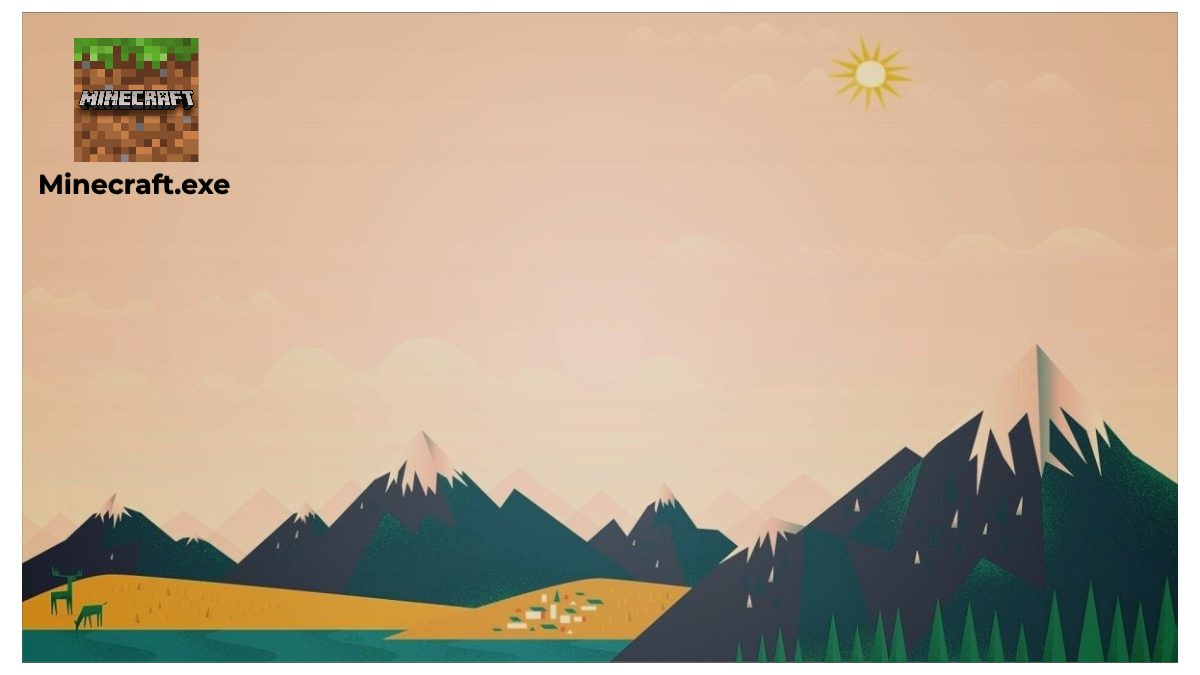
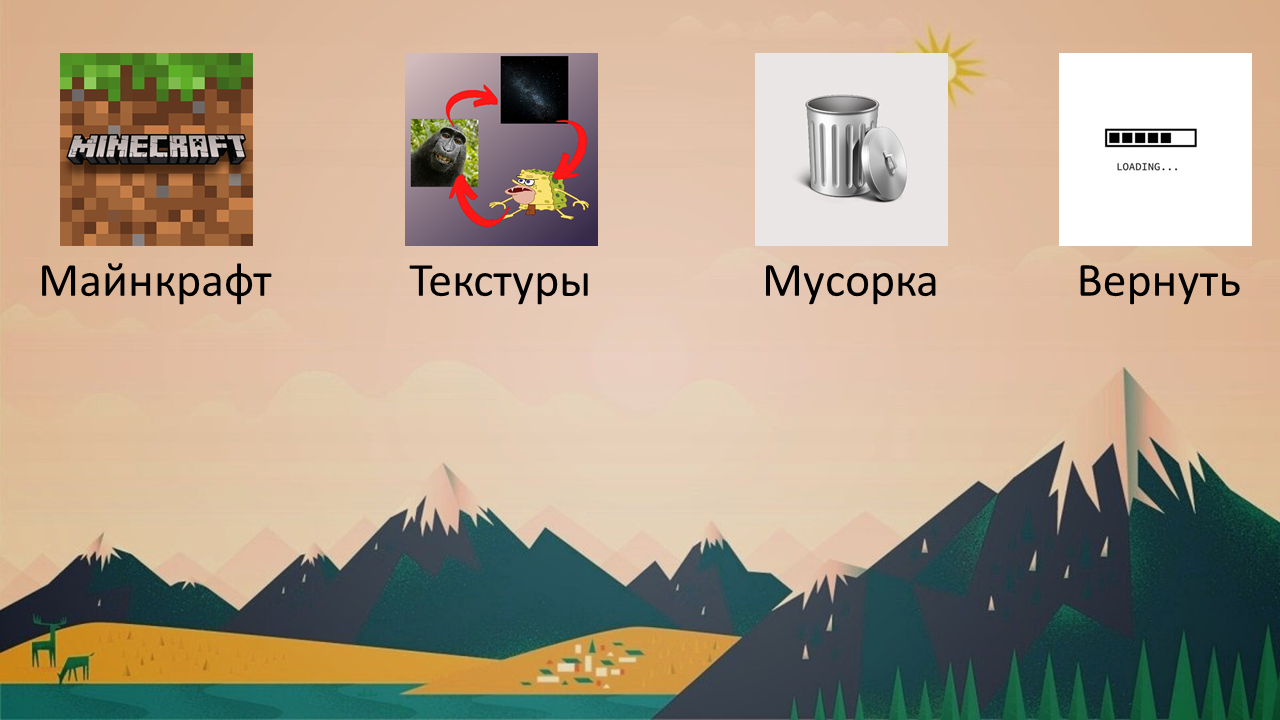
PLAY!!!!

diff --git a/add_custom.py b/add_custom.py
@@ -1,0 +1,132 @@
+import pygame
+import os
+from do import do_change
+
+
+def draw_txt(screen, text, size, x, y, color=(100, 255, 100)):
+    font = pygame.font.Font(None, size)
+    text = font.render(text, True, color)
+    screen.blit(text, (x, y))
+
+
+def show_adding():
+    pygame.init()
+    weight, height = 660, 660
+    screen = pygame.display.set_mode((weight, height))
+    color = pygame.Color((248, 240, 255))
+    screen.fill(color)
+
+    run = True
+    error = False
+    flag = False
+
+    bool_text = False
+    print_text = True
+    text = ''
+
+    bool_symbol = False
+    print_symbol = True
+    symbol = ''
+
+    bool_number = False
+    print_number = True
+    number = ''
+
+    while run:
+        for event in pygame.event.get():
+            if event.type == pygame.QUIT:
+                run = False
+            elif event.type == pygame.MOUSEBUTTONDOWN:
+                x = event.pos[0]
+                y = event.pos[1]
+                # text
+                if 37 <= x <= 577 and 72 <= y <= 130:
+                    bool_text = True
+                else:
+                    bool_text = False
+                # symbol
+                if 37 <= x <= 577 and 252 <= y <= 312:
+                    bool_symbol = True
+                else:
+                    bool_symbol = False
+                # number
+                if 37 <= x <= 577 and 432 <= y <= 492:
+                    bool_number = True
+                else:
+                    bool_number = False
+
+                if weight // 2 - 135 <= x <= weight // 2 + 135 and 525 <= y <= 605:
+                        if (os.path.isfile(f"data/{text}") and len(symbol) == 1 and len(number) == 1 and
+                                number.isdigit()):
+                            do_change(text, symbol, int(number))
+                            flag = True
+                            error = False
+                        else:
+                            error = True
+            elif event.type == pygame.KEYDOWN:
+                if bool_text:
+                    if event.key == pygame.K_RETURN:
+                        bool_text = False
+                    elif event.key == pygame.K_BACKSPACE:
+                        text = text[:-1]
+                    else:
+                        if len(text) < 25:
+                            text += event.unicode
+
+                elif bool_symbol:
+                    if event.key == pygame.K_RETURN:
+                        bool_symbol = False
+                    elif event.key == pygame.K_BACKSPACE:
+                        symbol = symbol[:-1]
+                    else:
+                        if len(symbol) < 1:
+                            symbol += event.unicode
+
+                elif bool_number:
+                    if event.key == pygame.K_RETURN:
+                        bool_number = False
+                    elif event.key == pygame.K_BACKSPACE:
+                        number = number[:-1]
+                    else:
+                        if len(number) < 1:
+                            number += event.unicode
+
+        screen.fill(color)
+        draw_txt(screen, 'Напишите название текстурки:', 45, 36, 20, color=(241, 112, 255))
+        draw_txt(screen, 'Напишите символ текстурки:', 45, 36, 200, color=(241, 112, 255))
+        draw_txt(screen, 'Напишите номер слота:', 45, 36, 380, color=(241, 112, 255))
+
+        r = weight // 2 - 100
+        pygame.draw.rect(screen, (198, 255, 194), (r - 35, 525, r + 25, 80))
+        draw_txt(screen, 'Завершить ', 50, r, 550)
+
+        if error:
+            draw_txt(screen, 'Проверьте данные', 20, 250, 610, color=(0, 0, 0))
+
+        if flag:
+            draw_txt(screen, 'Добавлено', 20, 250, 610)
+
+        if bool_text:
+            pygame.draw.rect(screen, (0, 0, 0), (35, 70, 540, 60), 2)
+        else:
+            pygame.draw.rect(screen, (255, 179, 179), (35, 70, 540, 60), 2)
+
+        if bool_symbol:
+            pygame.draw.rect(screen, (0, 0, 0), (35, 250, 540, 60), 2)
+        else:
+            pygame.draw.rect(screen, (255, 179, 179), (35, 250, 540, 60), 2)
+
+        if bool_number:
+            pygame.draw.rect(screen, (0, 0, 0), (35, 430, 540, 60), 2)
+        else:
+            pygame.draw.rect(screen, (255, 179, 179), (35, 430, 540, 60), 2)
+
+        if print_text:
+            draw_txt(screen, text, 50, 41, 80, color=(248, 179, 255))
+        if print_symbol:
+            draw_txt(screen, symbol, 50, 41, 260, color=(248, 179, 255))
+        if print_number:
+            draw_txt(screen, number, 50, 41, 440, color=(248, 179, 255))
+        pygame.display.flip()
+
+

diff --git a/run_game.py b/run_game.py
@@ -1,18 +1,23 @@
 import pygame
 from play_maincraft import play_game
-from do import do_change, reset_all
+from do import reset_all, return_furst_value
+from add_custom import show_adding, draw_txt
 
 
 pygame.init()
 weight, height = 1200, 660
 screen = pygame.display.set_mode((weight, height))
-background_image = pygame.image.load('data/back2.png')
+background_image = pygame.image.load('data/back.png')
+background_image = pygame.transform.scale(background_image, (1200, 660))
 screen.blit(background_image, (0, 0))
 
 clock = pygame.time.Clock()
 maincraft = True
 fps = 60
 run = True
+
+print_reset = False
+print_return = False
 
 all_sprites = pygame.sprite.Group()
 cur_im = pygame.image.load('data/sword.png')
@@ -24,21 +29,39 @@ while run:
     for event in pygame.event.get():
         if event.type == pygame.QUIT:
             run = False
-        if event.type == pygame.KEYDOWN:
-            if event.key == pygame.K_6:
-                do_change()
-            elif event.key == pygame.K_7:
-                reset_all()
         if event.type == pygame.MOUSEBUTTONDOWN:
-            if 74 <= event.pos[0] <= 198 and 38 <= event.pos[1] <= 159 and maincraft:
+            x = event.pos[0]
+            y = event.pos[1]
+            if 52 <= x <= 232 and 45 <= y <= 219 and maincraft:
                 play_game()
                 screen = pygame.display.set_mode((weight, height))
-                background_image = pygame.image.load('data/back2.png')
                 screen.blit(background_image, (0, 0))
+            elif 375 <= x <= 555 and 45 <= y <= 219:
+                pygame.mouse.set_visible(True)
+                show_adding()
+                screen = pygame.display.set_mode((weight, height))
+            elif 705 <= x <= 885 and 45 <= y <= 219:
+                reset_all()
+                print_reset = True
+                print_return = False
+            elif 990 <= x <= 1170 and 45 <= y <= 219:
+                return_furst_value()
+                print_reset = False
+                print_return = True
+            else:
+                print_reset = False
+                print_return = False
+
         if event.type == pygame.MOUSEMOTION:
             cur.rect.topleft = event.pos
             pygame.mouse.set_visible(False)
+
+    if print_reset:
+        draw_txt(screen, '+', 50, 795, 300)
+    elif print_return:
+        draw_txt(screen, '+', 50, 1080, 300)
     all_sprites.draw(screen)
     pygame.display.update()
     screen.blit(background_image, (0, 0))
     clock.tick(fps)
+    pygame.display.flip()

diff --git a/do.py b/do.py
@@ -1,6 +1,9 @@
-def do_change():
+def do_change(tex, symbol, number):
 
     blocks = {}
+
+    number -= 1
+    symbol = symbol.upper()
 
     symbols_start = []
 
@@ -14,15 +17,6 @@ def do_change():
 
     for sym in blocks.keys():
         symbols_start.append(sym)
-
-    print('Выберите символ')
-    symbol = input().upper()
-
-    print('Выберите текстуру')
-    tex = input()
-
-    print('Выбери номер (от 1 до 5)')
-    number = int(input()) - 1
 
     symbols = []
 
@@ -112,3 +106,44 @@ def reset_all():
             f.write(line)
             f.write('\n')
 
+
+def return_furst_value():
+    a = []
+    f = open('data/bloks_list_0.txt', 'r', encoding='utf8')
+    text = f.readlines()
+    for i in text:
+        i = i.strip()
+        if i not in a:
+            a.append(i)
+
+    f = open('data/bloks_list.txt', 'r', encoding='utf8')
+    text = f.readlines()
+    for i in text:
+        i = i.strip()
+        if i not in a:
+            a.append(i)
+
+    f = open('data/bloks_list.txt', 'w', encoding='utf8')
+    for i in a:
+        f.write(i)
+        f.write('\n')
+
+    a = []
+    f = open('data/slovar_0.txt', 'r', encoding='utf8')
+    text = f.readlines()
+    for i in text:
+        i = i.strip()
+        if i not in a:
+            a.append(i)
+
+    f = open('data/slovar.txt', 'r', encoding='utf8')
+    text = f.readlines()
+    for i in text:
+        i = i.strip()
+        if i not in a:
+            a.append(i)
+
+    f = open('data/slovar.txt', 'w', encoding='utf8')
+    for i in a:
+        f.write(i)
+        f.write('\n')

diff --git a/create_level.py b/create_level.py
@@ -7,7 +7,7 @@ from do import get_list_of_blocks, get_dict
 
 
 class Level:
-    def __init__(self, level_data, surface, fps):
+    def __init__(self, surface, fps):
         self.display_surface = surface
         self.level_data = load_level('map.txt')
         self.blocks = get_dict()
@@ -64,15 +64,22 @@ class Level:
 
         x = 32
         y = 35
+        flag = False
 
         for symbol in self.text[0: 5]:
             if symbol in list(self.icons.keys()):
+                if symbol == list(self.icons.keys())[0]:
+                    x = 34
+                    flag = True
                 image = pygame.image.load(self.icons[symbol])
             else:
                 image = pygame.image.load(self.blocks[symbol])
                 image = pygame.transform.scale(image, (20, 20))
             rect = image.get_rect(topleft=(x, y))
             self.display_surface.blit(image, rect)
+            if flag:
+                x -= 2
+                flag = False
             x += 30
 
     def setup_level(self, layout):

diff --git a/play_maincraft.py b/play_maincraft.py
@@ -18,7 +18,7 @@ def play_game():
     pygame.mouse.set_visible(True)
     fps = 60
     count_for_del = 0
-    level = Level(level_map, screen, fps)
+    level = Level(screen, fps)
     running = True
 
     while running:
@@ -53,4 +53,5 @@ def play_game():
             running = False
         pygame.display.update()
         clock.tick(fps)
+        pygame.display.flip()
     pygame.mixer.music.stop()
